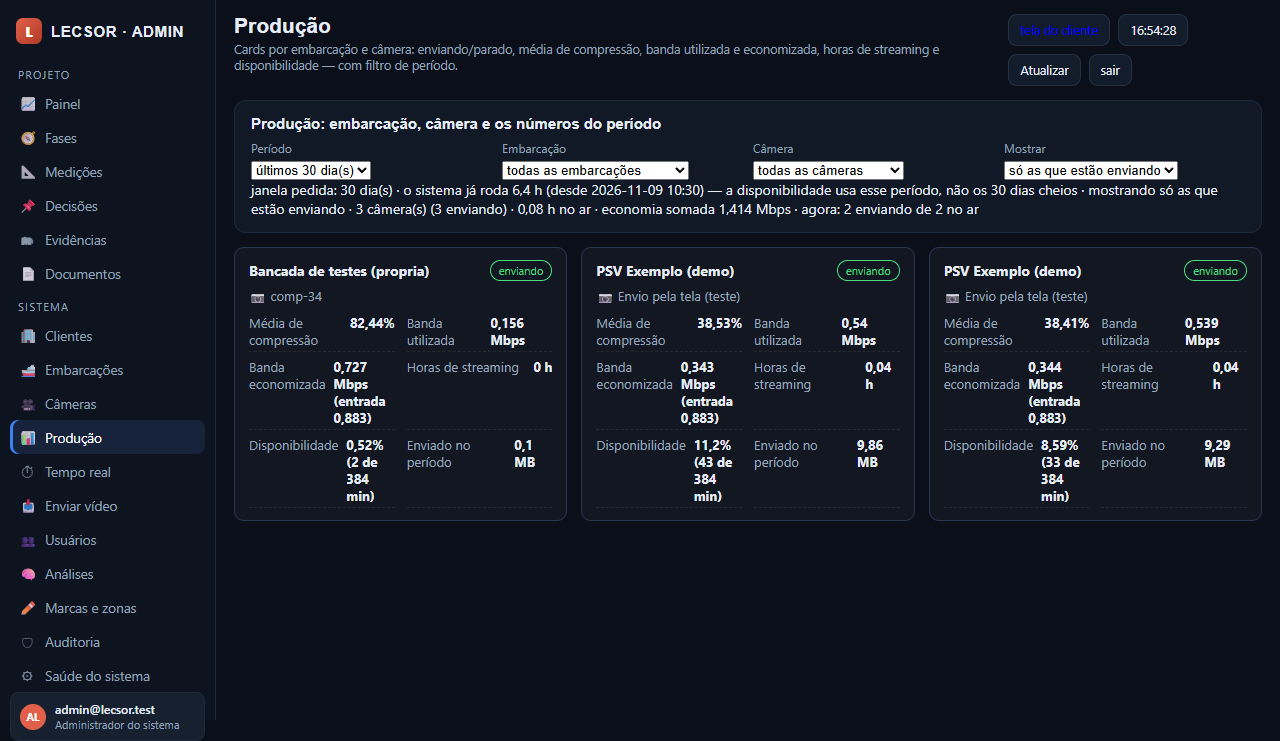
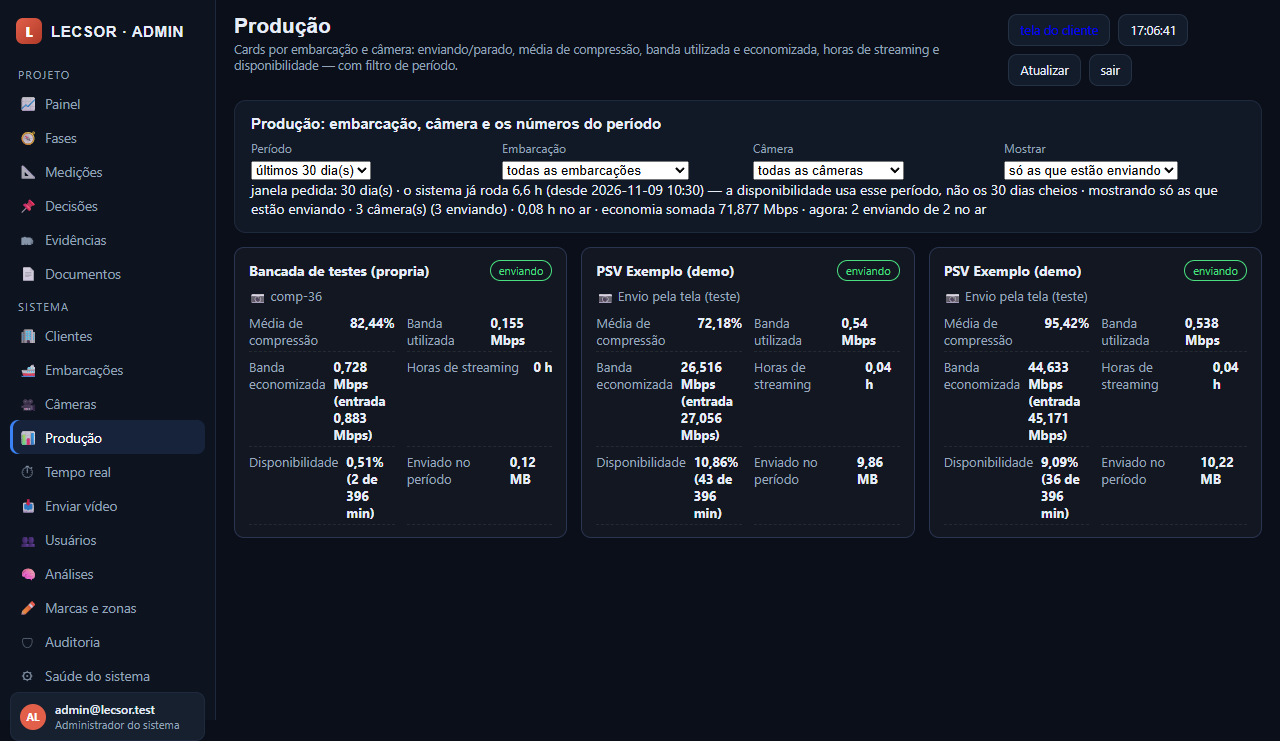
e2e: checa entrada bruta, compressao e economia do fluxo ao vivo

diff --git a/tests/e2e-envios.py b/tests/e2e-envios.py
@@ -324,6 +324,14 @@ def main() -> int:
         checar(bool(meus) and "Bancada" in meus[0]["embarcacao"],
                "fonte de teste vivo cai na BANCADA de testes, não no PSV de exemplo ({})".format(
                    meus[0]["embarcacao"] if meus else "?"))
+        # entrada/compressao/economia de uma fonte CRUA: sem fonte comprimida, vale o bruto equivalente
+        checar(bool(meus) and (meus[0].get("entrada_mbps") or 0) > 300
+               and (meus[0].get("banda_economizada_mbps") or 0) > 0
+               and "bruto" in (meus[0].get("entrada_fonte") or ""),
+               "fonte crua mostra entrada (bruto), compressão e banda economizada ({})".format(
+                   "entrada {} Mbps bruto · economia {} Mbps · compressão {}%".format(
+                       meus[0].get("entrada_mbps"), meus[0].get("banda_economizada_mbps"),
+                       meus[0].get("compressao_medio_pct")) if meus else "?"))
         _pedir("/api/ingestao/parar", {"id": r1["id"], "remover": True})
     st3, r3 = _pedir("/api/ingestao/ao-vivo", {"tipo": "camera", "dispositivo": "Camera Que Nao Existe",
                                                "fps": 30, "rotulo": "teste-falha-e2e"})
